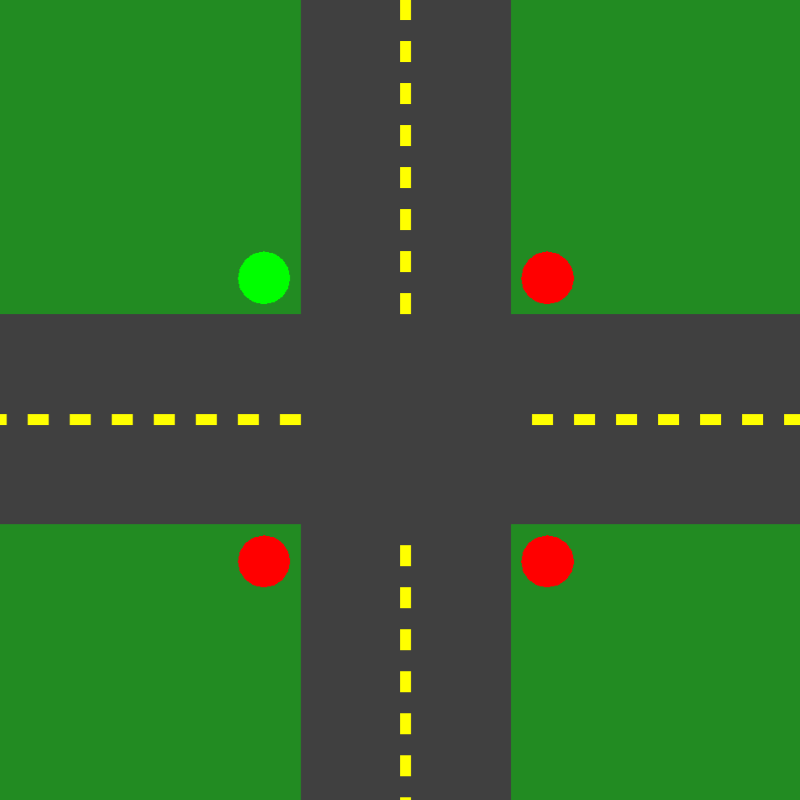
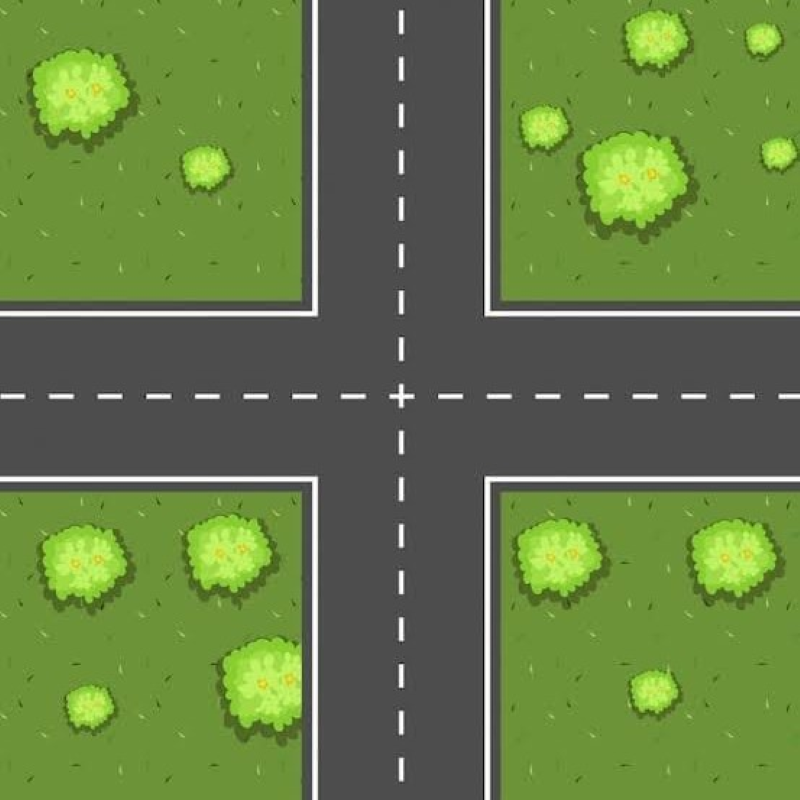
Add files via upload
respaldo2

diff --git a/Controlador/ControladorCarretera.java b/Controlador/ControladorCarretera.java
@@ -36,7 +36,7 @@ public class ControladorCarretera
         }
     }
 
-    // Clase que define el comportamiento de cada hilo
+    //comportamiento de cada hilo
     private class HiloCamino implements Runnable {
         private int idCamino;
 
@@ -48,7 +48,7 @@ public class ControladorCarretera
         public void run() {
             while (true) {
                 synchronized (candado) {
-                    // Si no es el turno de este camino, el hilo se duerme de forma segura
+                    // Si no es el turno de este camino el hilo se duerme
                     while (turnoActual != idCamino) {
                         try {
                             candado.wait(); 
@@ -57,7 +57,7 @@ public class ControladorCarretera
                         }
                     }
 
-                    //INICIA EL TURNO DE ESTE CAMINO
+                    //INICIA EL TURNO
                     //System.out.println("Camino " + idCamino + " en VERDE.");
                     modelo.getSemaforos().get(idCamino - 1).setColor("VERDE");
                     
@@ -67,29 +67,18 @@ public class ControladorCarretera
                         //variables temporales (0, 0)
                         int coordX = 0; 
                         int coordY = 0;
-                        int separacion = i * 60;
                         
                         switch (idCamino) {
-                            case 1: // Norte (bajan por el carril derecho, X = 410 a 490)
-                                coordX = 430; 
-                                coordY = 200 - separacion; // Aparecen arriba de la intersección
-                                break;
-                            case 2: // Este (van a la izquierda por el carril de arriba, Y = 310 a 390)
-                                coordX = 550 + separacion; // Aparecen a la derecha de la intersección
-                                coordY = 330;
-                                break;
-                            case 3: // Sur (suben por el carril izquierdo, X = 310 a 390)
-                                coordX = 330;
-                                coordY = 550 + separacion; // Aparecen abajo de la intersección
-                                break;
-                            case 4: // Oeste (van a la derecha por el carril de abajo, Y = 410 a 490)
-                                coordX = 200 - separacion; // Aparecen a la izquierda de la intersección
-                                coordY = 430;
-                                break;
+                            case 1: coordX = 430; coordY = 200; break; 
+                            case 2: coordX = 550; coordY = 330; break; 
+                            case 3: coordX = 330; coordY = 550; break; 
+                            case 4: coordX = 200; coordY = 430; break; 
                         }
                         
-                        Carro nuevoCarro = new Carro(coordX, coordY, 5, idCamino);
-                        // Cuando nacen les damos permiso  para cruzar porque su luz es verde
+                        String direccionAleatoria = (Math.random() > 0.5) ? "DERECHO" : "DERECHA";
+                        
+                        // Mandamos la dirección al constructor
+                        Carro nuevoCarro = new Carro(coordX, coordY, 5, idCamino, direccionAleatoria);
                         nuevoCarro.setEstado("CRUZANDO");
                         
                         // Guardamos el carro en la lista correcta del modelo
@@ -97,8 +86,19 @@ public class ControladorCarretera
                         if(idCamino == 2) modelo.getCarrosCamino2().add(nuevoCarro);
                         if(idCamino == 3) modelo.getCarrosCamino3().add(nuevoCarro);
                         if(idCamino == 4) modelo.getCarrosCamino4().add(nuevoCarro);
+                        
+                        try {
+                            candado.wait(1500); 
+                        } catch (InterruptedException e) {}
                     }
 
+                    try { candado.wait(2500); } catch (InterruptedException e) {}
+                    
+                    modelo.getSemaforos().get(idCamino - 1).setColor("AMARILLO");
+                    try { candado.wait(3000); } catch (InterruptedException e) {}
+                    
+                    modelo.getSemaforos().get(idCamino - 1).setColor("ROJO");
+                    
                     // Extraemos los estados actuales para mandarlos a la vista
                     String c1 = modelo.getSemaforos().get(0).getColor();
                     String c2 = modelo.getSemaforos().get(1).getColor();
@@ -108,19 +108,11 @@ public class ControladorCarretera
                     // Le ordenamos a la vista que actualice las imágenes
                     vista.getPanelCarretera().actualizarPantalla(c1, c2, c3, c4, null);
 
-                    // El semáforo se queda en verde por 10 segundos
-                    try {
-                        candado.wait(10000); 
-                    } catch (InterruptedException e) {
-                        e.printStackTrace();
-                    }
-
-                    //TERMINA EL TURNO
                     modelo.getSemaforos().get(idCamino - 1).setColor("ROJO");
 
                     // Se repite la extracción para actualizar la vista a rojo antes de ceder el turno
                     c1 = modelo.getSemaforos().get(0).getColor();
-                    // ... obtener c2, c3, c4 igual que arriba
+                    //obtener c2, c3, c4 igual que arriba
                     vista.getPanelCarretera().actualizarPantalla(c1, c2, c3, c4, null);
 
                     turnoActual = (turnoActual % 4) + 1;
@@ -139,13 +131,13 @@ public class ControladorCarretera
         public void run() {
             while (true) {
                 synchronized (candadoAnimacion) {
-                    // 1. Movemos todos los carros del modelo
+                    //Movemos todos los carros del modelo
                     for (Carro c : modelo.getCarrosCamino1()) c.avanzar();
                     for (Carro c : modelo.getCarrosCamino2()) c.avanzar();
                     for (Carro c : modelo.getCarrosCamino3()) c.avanzar();
                     for (Carro c : modelo.getCarrosCamino4()) c.avanzar();
 
-                    // 2. Preparamos la lista unificada de coordenadas para la Vista
+                    //preparamos la lista de coordenadas para la Vista
                     java.util.ArrayList<int[]> listaCoordenadas = new java.util.ArrayList<>();
                     
                     // Juntamos todos los carros en una sola lista temporal de coordenadas
@@ -154,16 +146,16 @@ public class ControladorCarretera
                     for (Carro c : modelo.getCarrosCamino3()) listaCoordenadas.add(new int[]{c.getX(), c.getY()});
                     for (Carro c : modelo.getCarrosCamino4()) listaCoordenadas.add(new int[]{c.getX(), c.getY()});
 
-                    // 3. Extraemos los colores actuales de los semáforos
+                    //Extraemos los colores actuales de los semáforos
                     String c1 = modelo.getSemaforos().get(0).getColor();
                     String c2 = modelo.getSemaforos().get(1).getColor();
                     String c3 = modelo.getSemaforos().get(2).getColor();
                     String c4 = modelo.getSemaforos().get(3).getColor();
 
-                    // 4. Mandamos todo a la pantalla de un solo golpe
+                    //mandamos todo a la pantalla de un solo golpe
                     vista.getPanelCarretera().actualizarPantalla(c1, c2, c3, c4, listaCoordenadas);
 
-                    // 5. Pausa de 50 milisegundos para que se vea fluido usando wait()
+                    //pausa de 50 milisegundos para que se vea fluido
                     try {
                         candadoAnimacion.wait(50);
                     } catch (InterruptedException e) {

diff --git a/Modelo/Carretera.java b/Modelo/Carretera.java
@@ -9,45 +9,47 @@ package Modelo;
  */
 import java.util.ArrayList;
 
+import java.util.concurrent.CopyOnWriteArrayList;
+
 public class Carretera
 {
     private ArrayList<Semaforo> semaforos;
-    private ArrayList<Carro> carrosCamino1;
-    private ArrayList<Carro> carrosCamino2;
-    private ArrayList<Carro> carrosCamino3;
-    private ArrayList<Carro> carrosCamino4;
+    private CopyOnWriteArrayList<Carro> carrosCamino1;
+    private CopyOnWriteArrayList<Carro> carrosCamino2;
+    private CopyOnWriteArrayList<Carro> carrosCamino3;
+    private CopyOnWriteArrayList<Carro> carrosCamino4;
 
     public Carretera() {
         semaforos = new ArrayList<>();
         for (int i = 1; i <= 4; i++) {
             semaforos.add(new Semaforo(i));
         }
-        carrosCamino1 = new ArrayList<>();
-        carrosCamino2 = new ArrayList<>();
-        carrosCamino3 = new ArrayList<>();
-        carrosCamino4 = new ArrayList<>();
+        
+        carrosCamino1 = new CopyOnWriteArrayList<>();
+        carrosCamino2 = new CopyOnWriteArrayList<>();
+        carrosCamino3 = new CopyOnWriteArrayList<>();
+        carrosCamino4 = new CopyOnWriteArrayList<>();
     }
-
     //GETTERS
 
     public ArrayList<Semaforo> getSemaforos() {
         return semaforos;
     }
 
-    public ArrayList<Carro> getCarrosCamino1() {
-        return carrosCamino1;
+    public CopyOnWriteArrayList<Carro> getCarrosCamino1() { 
+        return carrosCamino1; 
     }
-
-    public ArrayList<Carro> getCarrosCamino2() {
-        return carrosCamino2;
+    
+    public CopyOnWriteArrayList<Carro> getCarrosCamino2() { 
+        return carrosCamino2; 
     }
-
-    public ArrayList<Carro> getCarrosCamino3() {
-        return carrosCamino3;
+    
+    public CopyOnWriteArrayList<Carro> getCarrosCamino3() { 
+        return carrosCamino3; 
     }
-
-    public ArrayList<Carro> getCarrosCamino4() {
-        return carrosCamino4;
+    
+    public CopyOnWriteArrayList<Carro> getCarrosCamino4() { 
+        return carrosCamino4; 
     }
     
     //SETTERS
@@ -56,19 +58,19 @@ public class Carretera
         this.semaforos = semaforos;
     }
 
-    public void setCarrosCamino1(ArrayList<Carro> carrosCamino1) {
+    public void setCarrosCamino1(CopyOnWriteArrayList<Carro> carrosCamino1) {
         this.carrosCamino1 = carrosCamino1;
     }
 
-    public void setCarrosCamino2(ArrayList<Carro> carrosCamino2) {
+    public void setCarrosCamino2(CopyOnWriteArrayList<Carro> carrosCamino2) {
         this.carrosCamino2 = carrosCamino2;
     }
 
-    public void setCarrosCamino3(ArrayList<Carro> carrosCamino3) {
+    public void setCarrosCamino3(CopyOnWriteArrayList<Carro> carrosCamino3) {
         this.carrosCamino3 = carrosCamino3;
     }
 
-    public void setCarrosCamino4(ArrayList<Carro> carrosCamino4) {
+    public void setCarrosCamino4(CopyOnWriteArrayList<Carro> carrosCamino4) {
         this.carrosCamino4 = carrosCamino4;
     }
 }

diff --git a/Modelo/Carro.java b/Modelo/Carro.java
@@ -14,13 +14,16 @@ public class Carro
     private int velocidad;
     private int caminoId;
     private String estado; // "ESPERANDO", "CRUZANDO", "PASADO"
+    
+    private String direccion;
 
-    public Carro(int x, int y, int velocidad, int caminoId) {
+    public Carro(int x, int y, int velocidad, int caminoId, String direccion) {
         this.x = x;
         this.y = y;
         this.velocidad = velocidad;
         this.caminoId = caminoId;
         this.estado = "ESPERANDO";
+        this.direccion= direccion;
     }
 
     public void avanzar() {
@@ -28,16 +31,32 @@ public class Carro
         if (estado.equals("CRUZANDO")) {
             switch (caminoId) {
                 case 1: // Viene del Norte, baja hacia el Sur
-                    y += velocidad;
+                    if (direccion.equals("DERECHA") && y >= 330) {
+                        x -= velocidad; // Gira hacia el Oeste
+                    } else {
+                        y += velocidad; // Sigue derecho al Sur
+                    }
                     break;
                 case 2: // Viene del Este, va hacia el Oeste
-                    x -= velocidad;
+                    if (direccion.equals("DERECHA") && x <= 430) {
+                        y -= velocidad; // Gira hacia el Norte
+                    } else {
+                        x -= velocidad; // Sigue derecho al Oeste
+                    }
                     break;
                 case 3: // Viene del Sur, sube hacia el Norte
-                    y -= velocidad;
+                    if (direccion.equals("DERECHA") && y <= 430) {
+                        x += velocidad; // Gira hacia el Este
+                    } else {
+                        y -= velocidad; // Sigue derecho al Norte
+                    }
                     break;
                 case 4: // Viene del Oeste, va hacia el Este
-                    x += velocidad;
+                    if (direccion.equals("DERECHA") && x >= 330) {
+                        y += velocidad; // Gira hacia el Sur
+                    } else {
+                        x += velocidad; // Sigue derecho al Este
+                    }
                     break;
             }
         }
@@ -84,4 +103,11 @@ public class Carro
         this.estado = estado;
     }
     
+    public String getDireccion() { 
+        return direccion; 
+    }
+    
+    public void setDireccion(String direccion) { 
+        this.direccion = direccion; 
+    }
 }

diff --git a/Vista/PanelCarretera.java b/Vista/PanelCarretera.java
@@ -27,8 +27,8 @@ public class PanelCarretera extends JPanel
         coloresSemaforos = new String[]{"ROJO", "ROJO", "ROJO", "ROJO"};
         coordenadasCarros = new ArrayList<>();
         
-        imgFondo = new ImageIcon("Imagenes/fondo_carretera.png").getImage();
-        imgCarro = new ImageIcon("Imagenes/carrito.png").getImage();
+        imgFondo = new ImageIcon("Imagenes/fondo_carretera3.png").getImage();
+        imgCarro = new ImageIcon("Imagenes/carrito3.png").getImage();
     }
     
 
@@ -50,30 +50,37 @@ public class PanelCarretera extends JPanel
     protected void paintComponent(Graphics g) {
         super.paintComponent(g);
         
-        // 1. dibuja el mapa en base a la imagen
+        // mapa en base a la imagen
         g.drawImage(imgFondo, 0, 0, 800, 800, this);
 
         // Semaforos
         // Camino 1 (Norte)
-        g.setColor(coloresSemaforos[0].equals("VERDE") ? Color.GREEN : Color.RED);
-        g.fillOval(240, 240, 50, 50); 
+        if (coloresSemaforos[0].equals("VERDE")) g.setColor(Color.GREEN);
+        else if (coloresSemaforos[0].equals("AMARILLO")) g.setColor(Color.YELLOW);
+        else g.setColor(Color.RED);
+        g.fillOval(240, 240, 50, 50);
         
         // Camino 2 (Este)
-        g.setColor(coloresSemaforos[1].equals("VERDE") ? Color.GREEN : Color.RED);
+        if (coloresSemaforos[1].equals("VERDE")) g.setColor(Color.GREEN);
+        else if (coloresSemaforos[1].equals("AMARILLO")) g.setColor(Color.YELLOW);
+        else g.setColor(Color.RED);
         g.fillOval(510, 240, 50, 50); 
         
         // Camino 3 (Sur)
-        g.setColor(coloresSemaforos[2].equals("VERDE") ? Color.GREEN : Color.RED);
-        g.fillOval(510, 510, 50, 50); 
+        if (coloresSemaforos[2].equals("VERDE")) g.setColor(Color.GREEN);
+        else if (coloresSemaforos[2].equals("AMARILLO")) g.setColor(Color.YELLOW);
+        else g.setColor(Color.RED);
+        g.fillOval(510, 510, 50, 50);
         
         // Camino 4 (Oeste)
-        g.setColor(coloresSemaforos[3].equals("VERDE") ? Color.GREEN : Color.RED);
-        g.fillOval(240, 510, 50, 50); 
+        if (coloresSemaforos[3].equals("VERDE")) g.setColor(Color.GREEN);
+        else if (coloresSemaforos[3].equals("AMARILLO")) g.setColor(Color.YELLOW);
+        else g.setColor(Color.RED);
+        g.fillOval(240, 510, 50, 50);
 
-        // 3. colocando los carros
+        // colocarcarros
         if (coordenadasCarros != null) {
             for (int[] coord : coordenadasCarros) {
-                
                 g.drawImage(imgCarro, coord[0], coord[1], 40, 40, this); 
             }
         }

diff --git a/Vista/VentanaPrincipal.java b/Vista/VentanaPrincipal.java
@@ -1,6 +1,6 @@
 package Vista;
 import javax.swing.JFrame;
-
+import java.awt.BorderLayout;
 
 /**
  * Write a description of class VentanaPrincipal here.
@@ -22,7 +22,8 @@ public class VentanaPrincipal extends JFrame
         this.setResizable(false); 
         this.setLocationRelativeTo(null);
 
-        //Inicializa el panel y agrega a la ventana principal
+        this.setLayout(new BorderLayout());
+        
         panelCarretera = new PanelCarretera();
         this.add(panelCarretera);
         